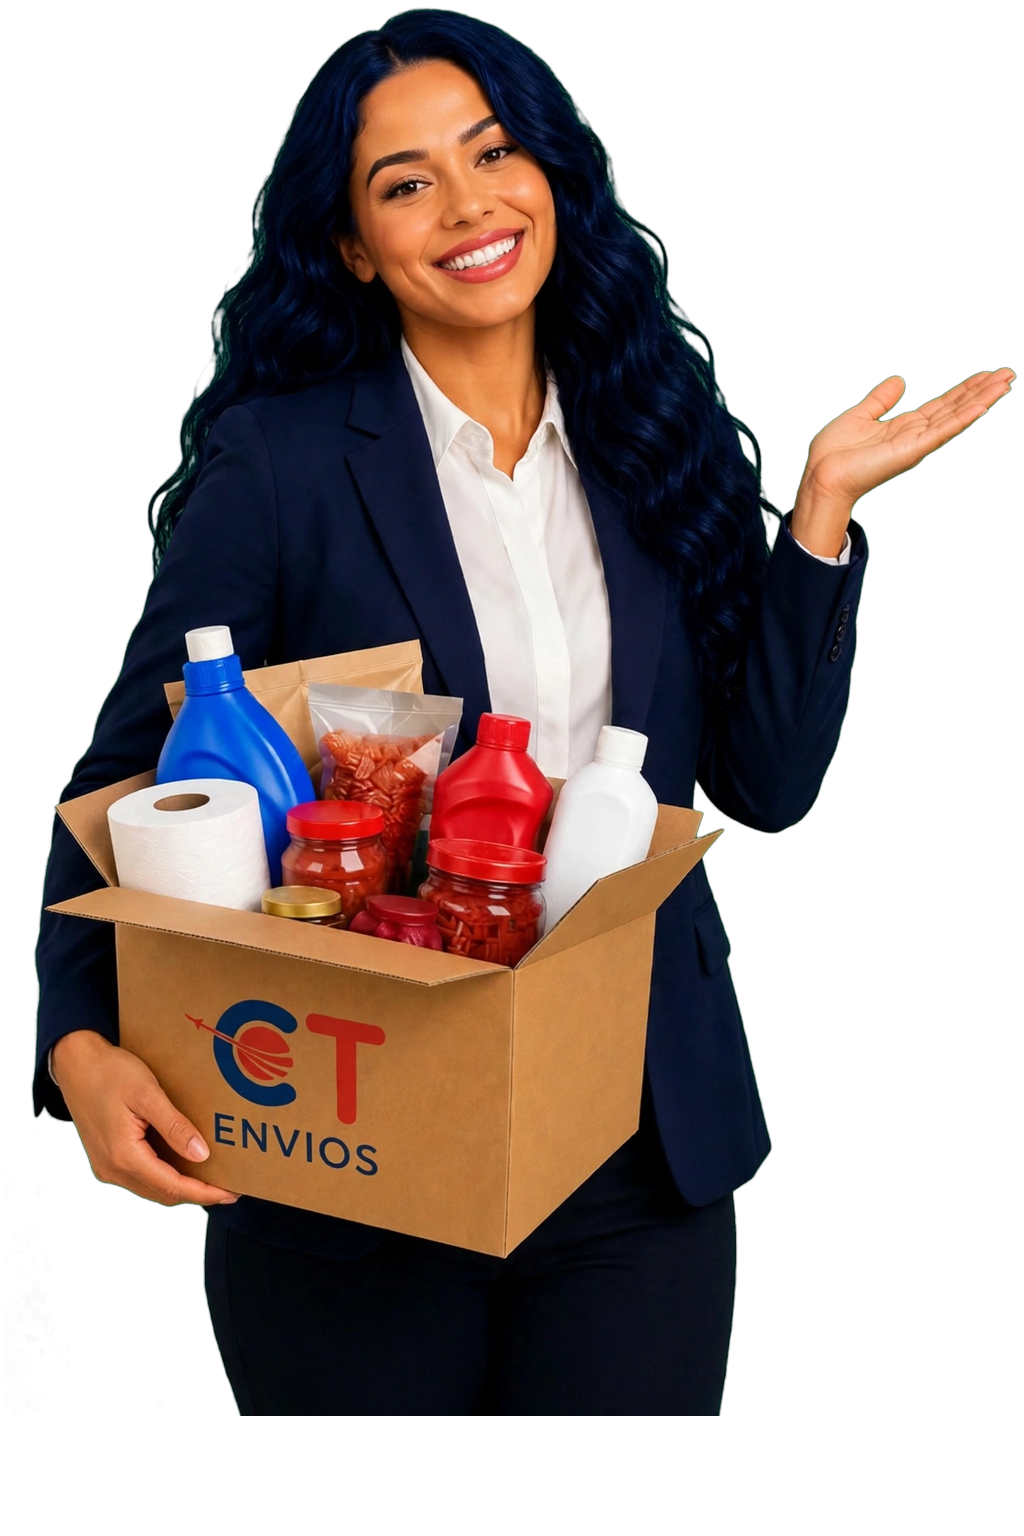
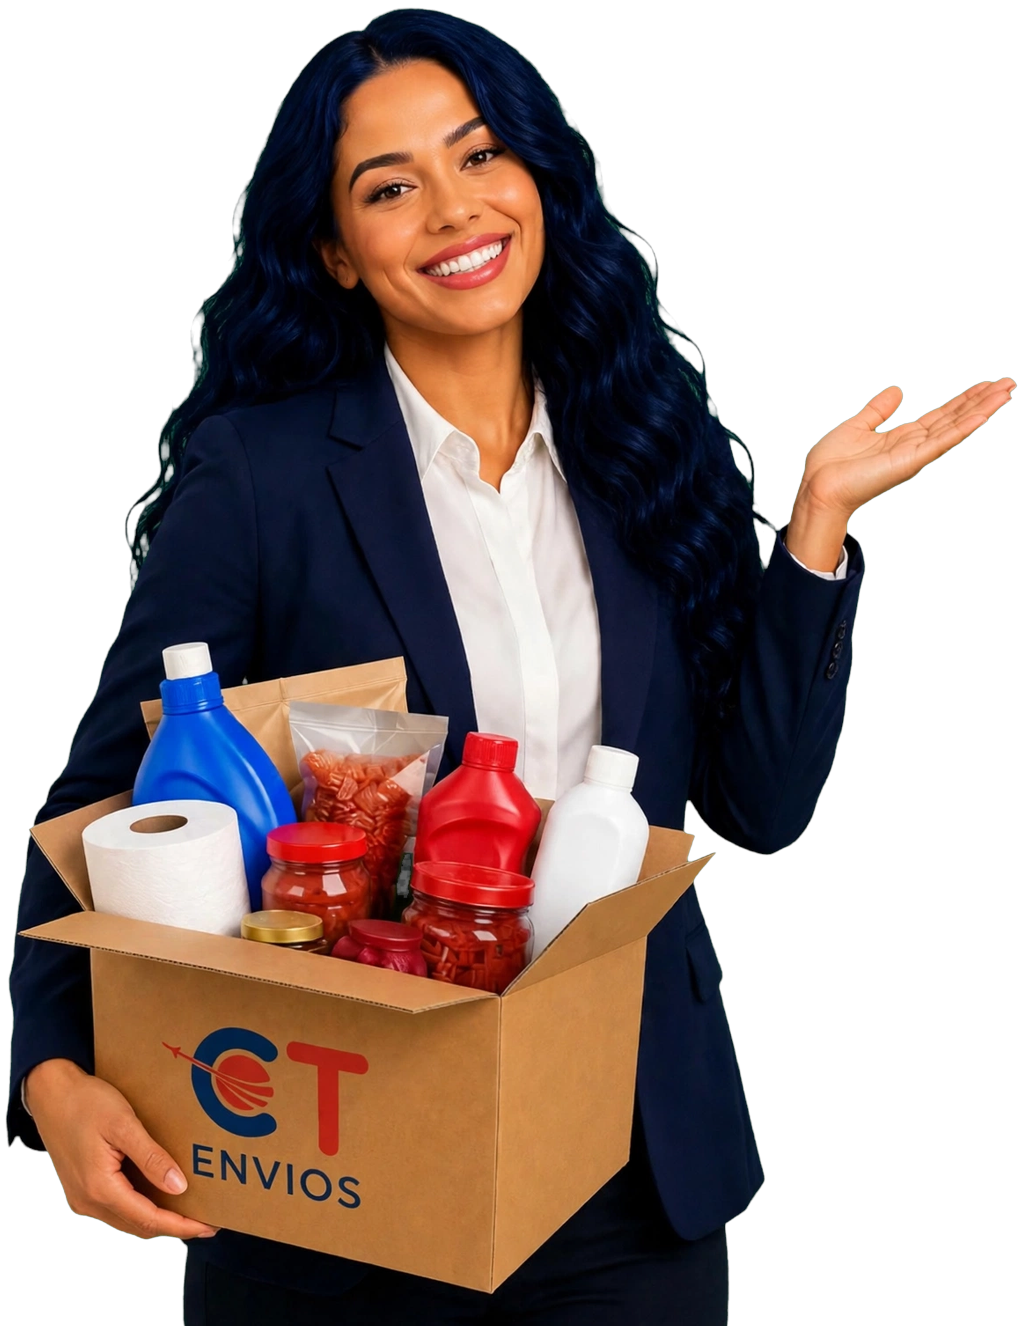
FAQ: reencuadrar la modelo con la caja como cierre inferior
El recorte se rehace con una llave de croma mas estricta (menos
franja en el pelo sobre fondo oscuro) y el lienzo se cierra justo
debajo de la caja: fuera la franja transparente inferior y la masa
oscura del pantalon que se fundia con el fondo azul marino.

diff --git a/app/sections/faq.tsx b/app/sections/faq.tsx
@@ -25,7 +25,7 @@ export function Faq(): ReactElement {
               src={faq.image.src}
               alt={faq.image.alt}
               width={1024}
-              height={1536}
+              height={1326}
               quality={75}
               className="relative h-auto w-52 object-contain object-bottom [filter:drop-shadow(0_0_34px_rgb(160_190_255/0.55))] sm:w-64 lg:w-full lg:max-w-md"
               sizes="(max-width: 1024px) 256px, 448px"
